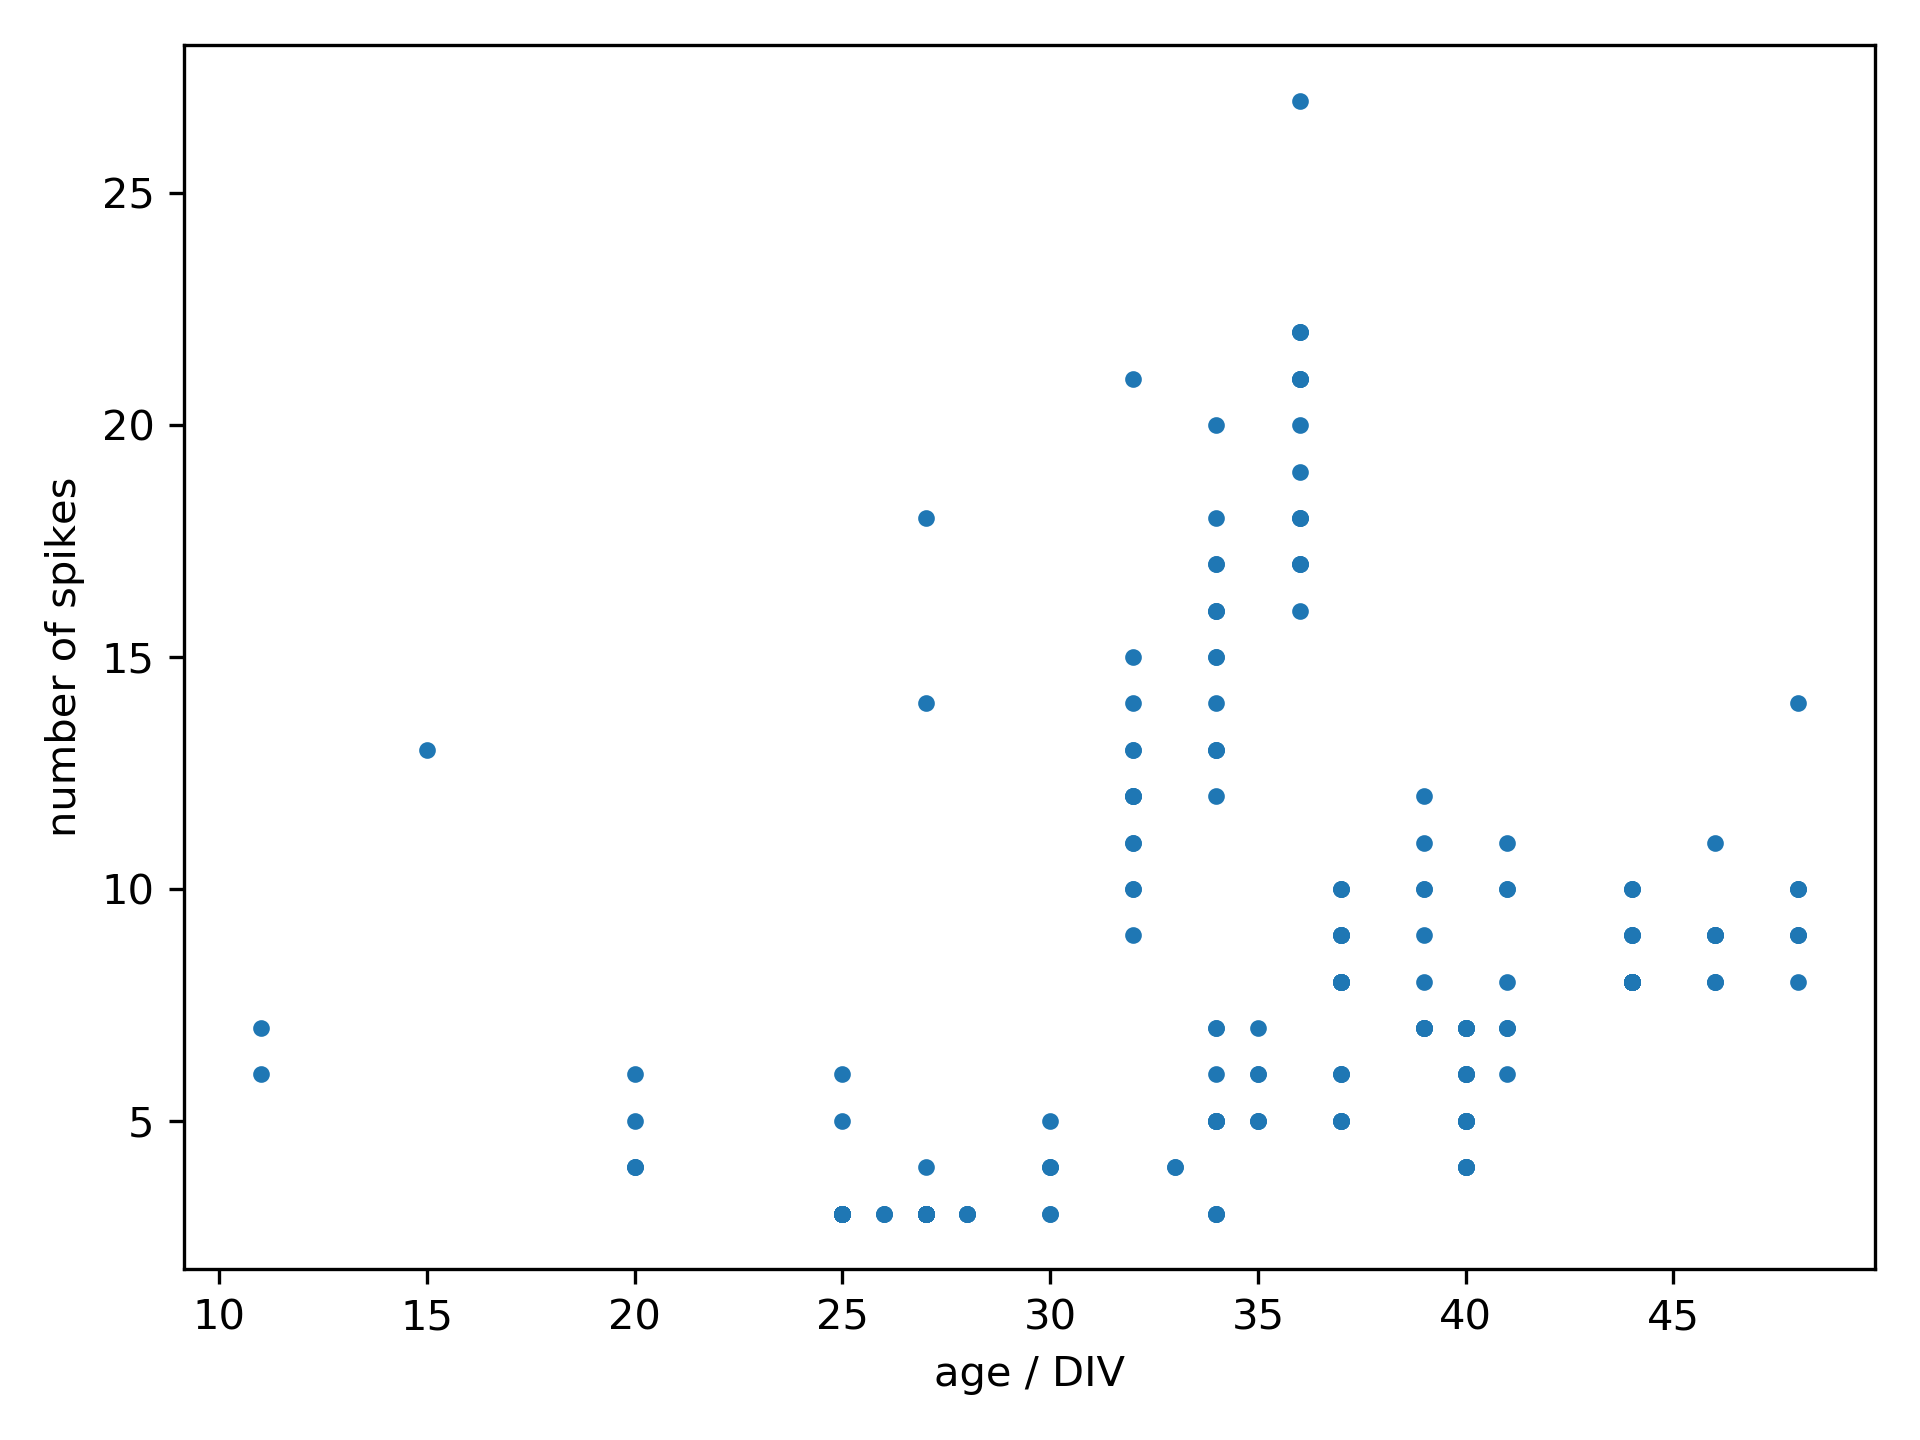
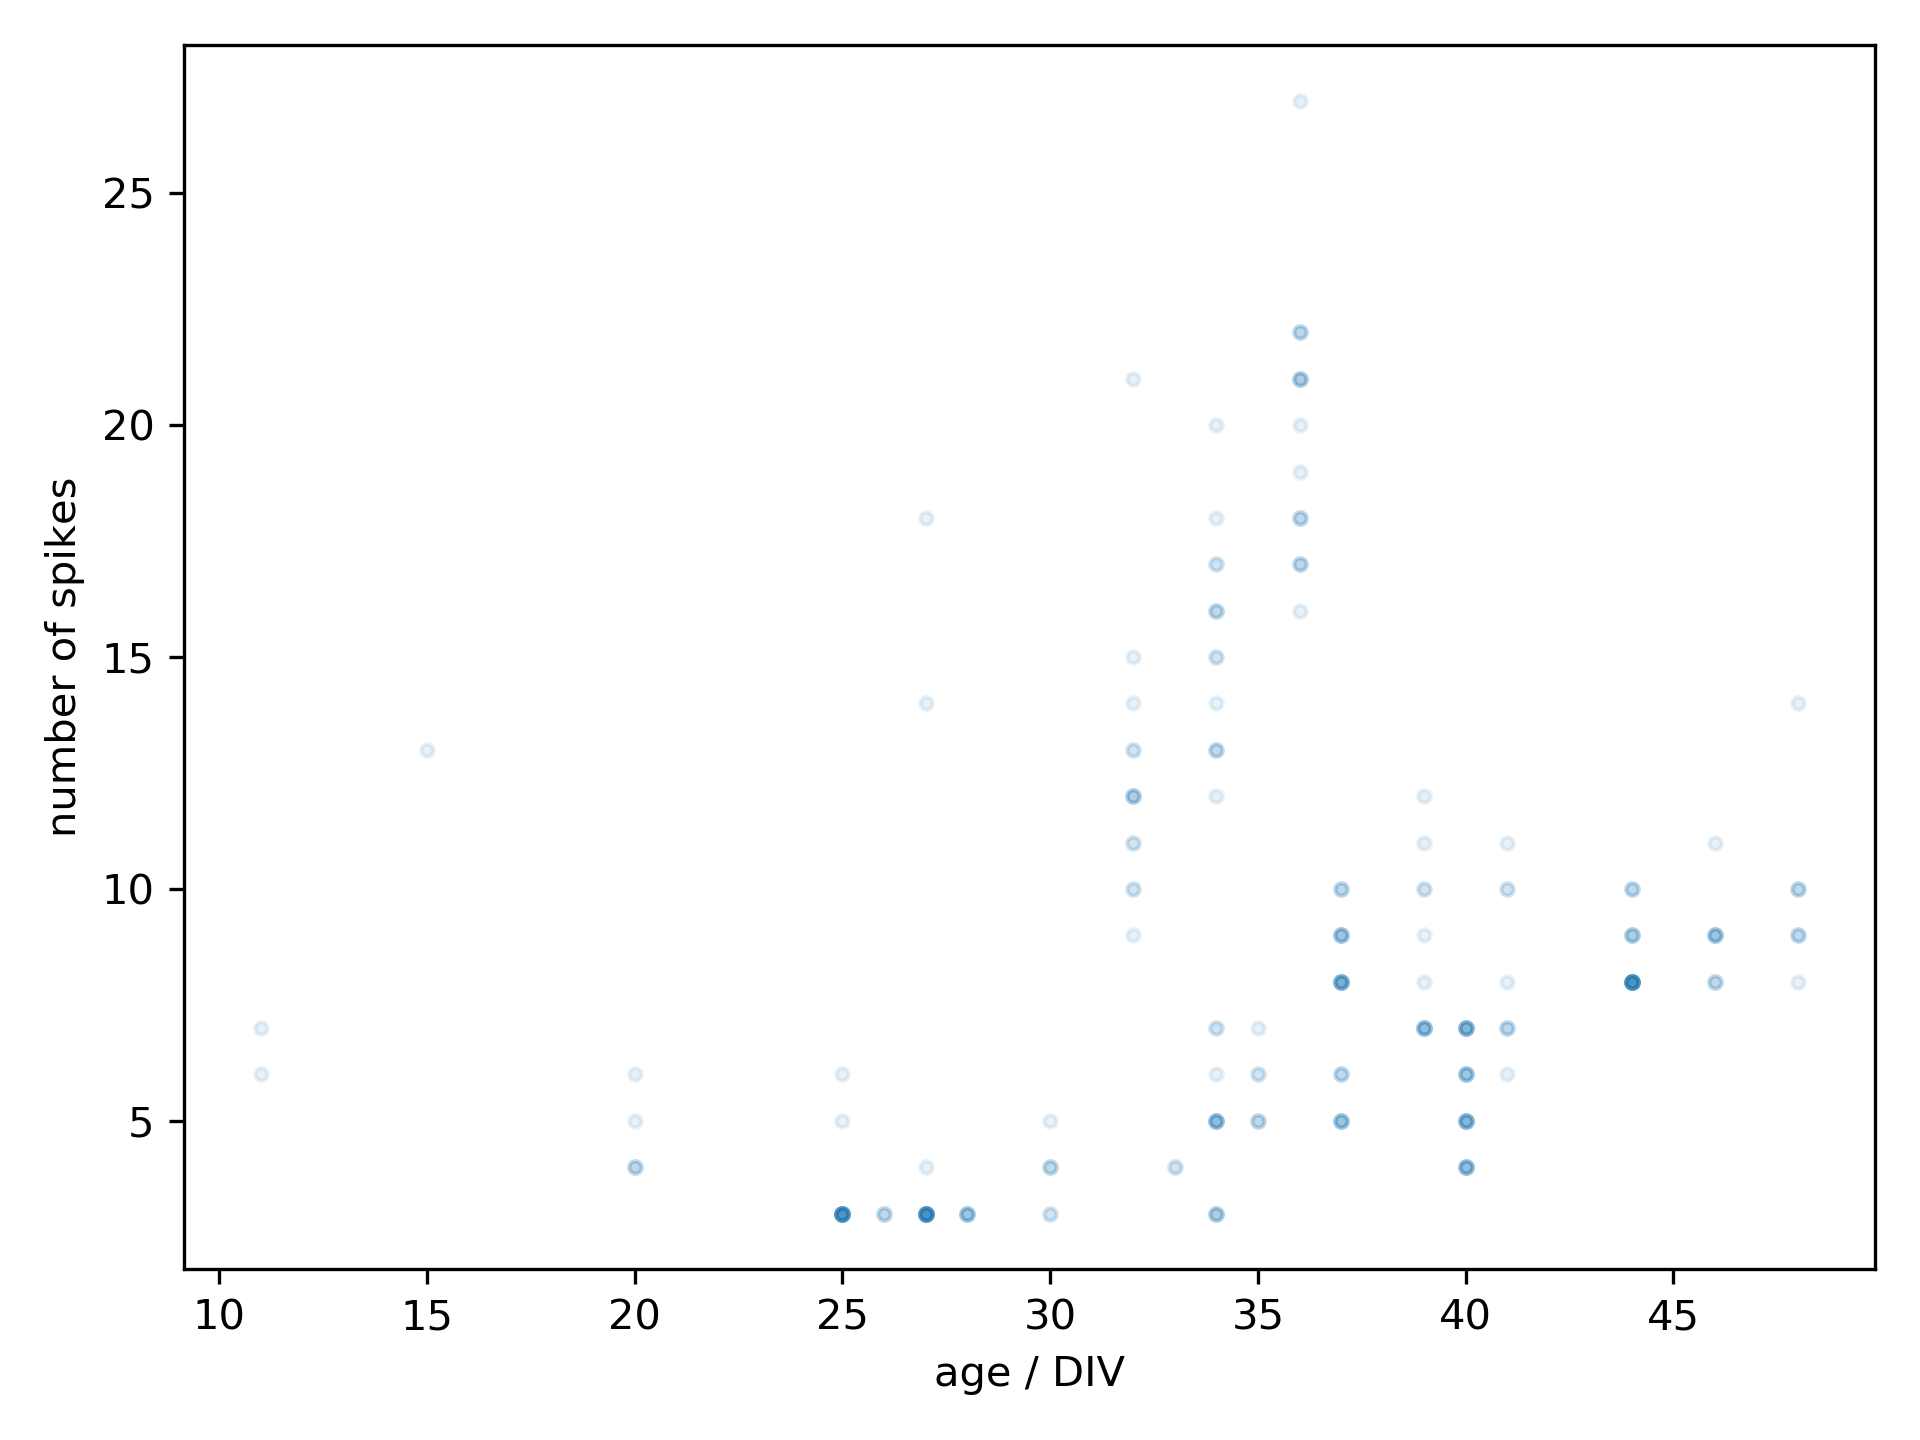
Add transparency to network spike plot

Changed region(s): [[0.625, 0.6875, 0.6562, 0.7812]]

diff --git a/scripts/analyse_network_spikes.py b/scripts/analyse_network_spikes.py
@@ -6,6 +6,7 @@ import matplotlib
 import matplotlib.pyplot as plt
 import os
 import quantities as qt
+import random
 from h5fd.plot import RECORDING_ATTEMPTS
 from matplotlib.backends.backend_pdf import PdfPages
 
@@ -115,6 +116,7 @@ with PdfPages(ACTIVITY_FIGURE_PATH) as pdf_act, PdfPages(CUTOUTS_FIGURE_PATH) as
                 pdf_act.savefig()
                 plt.close()
 
+# rate
 plt.plot(age_rate_l, rate_l, ".")
 plt.xlabel("age / DIV")
 plt.ylabel("network spikes per min")
@@ -122,7 +124,8 @@ plt.tight_layout()
 plt.savefig(SCATTER_FIGURE_PATH)
 plt.close()
 
-plt.plot(age_amp_l, amp_l, ".")
+# amplitude
+plt.plot(age_amp_l, amp_l, ".", alpha=0.1)
 plt.xlabel("age / DIV")
 plt.ylabel("number of spikes")
 plt.tight_layout()
